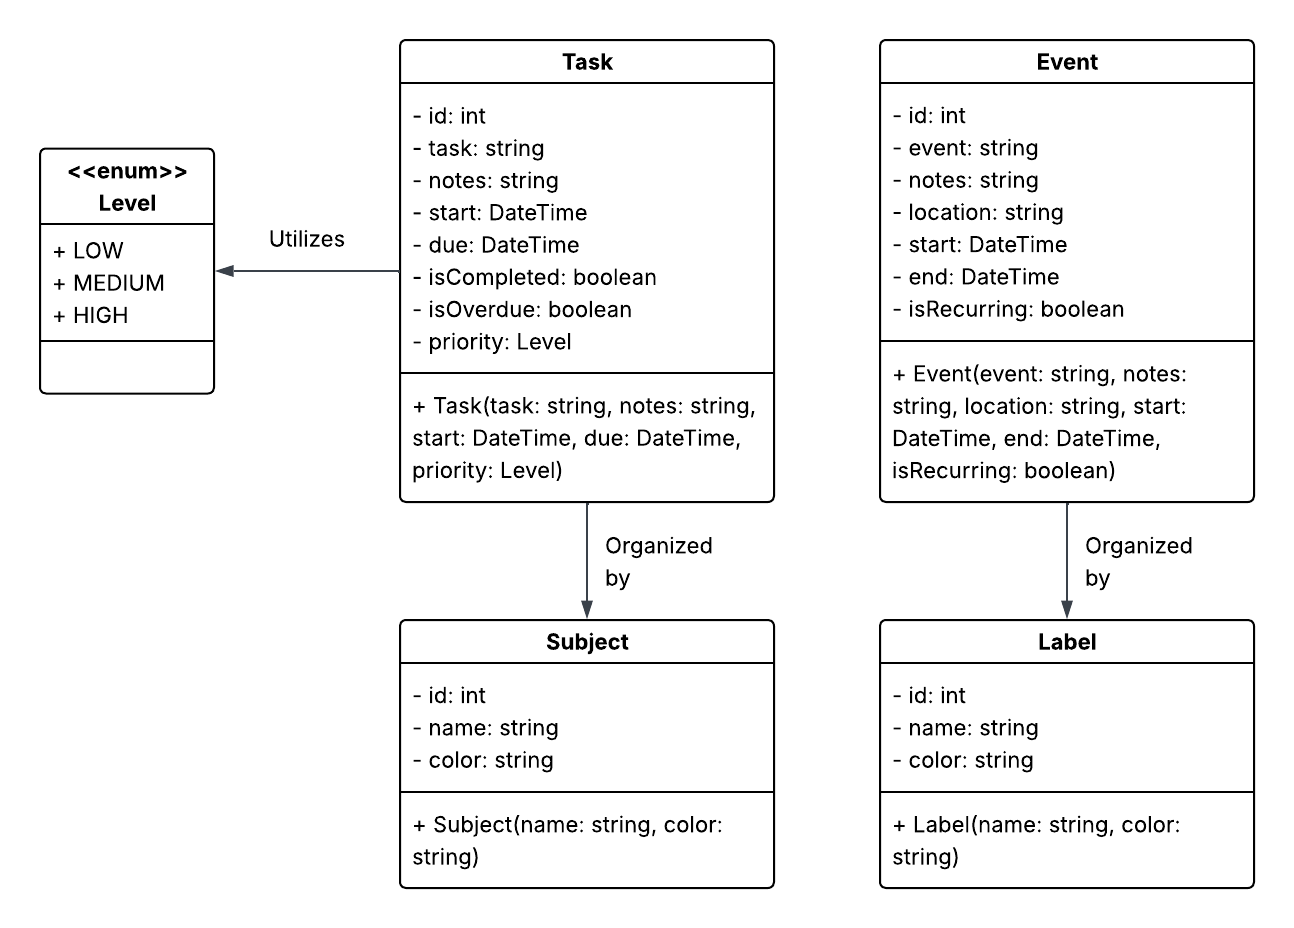
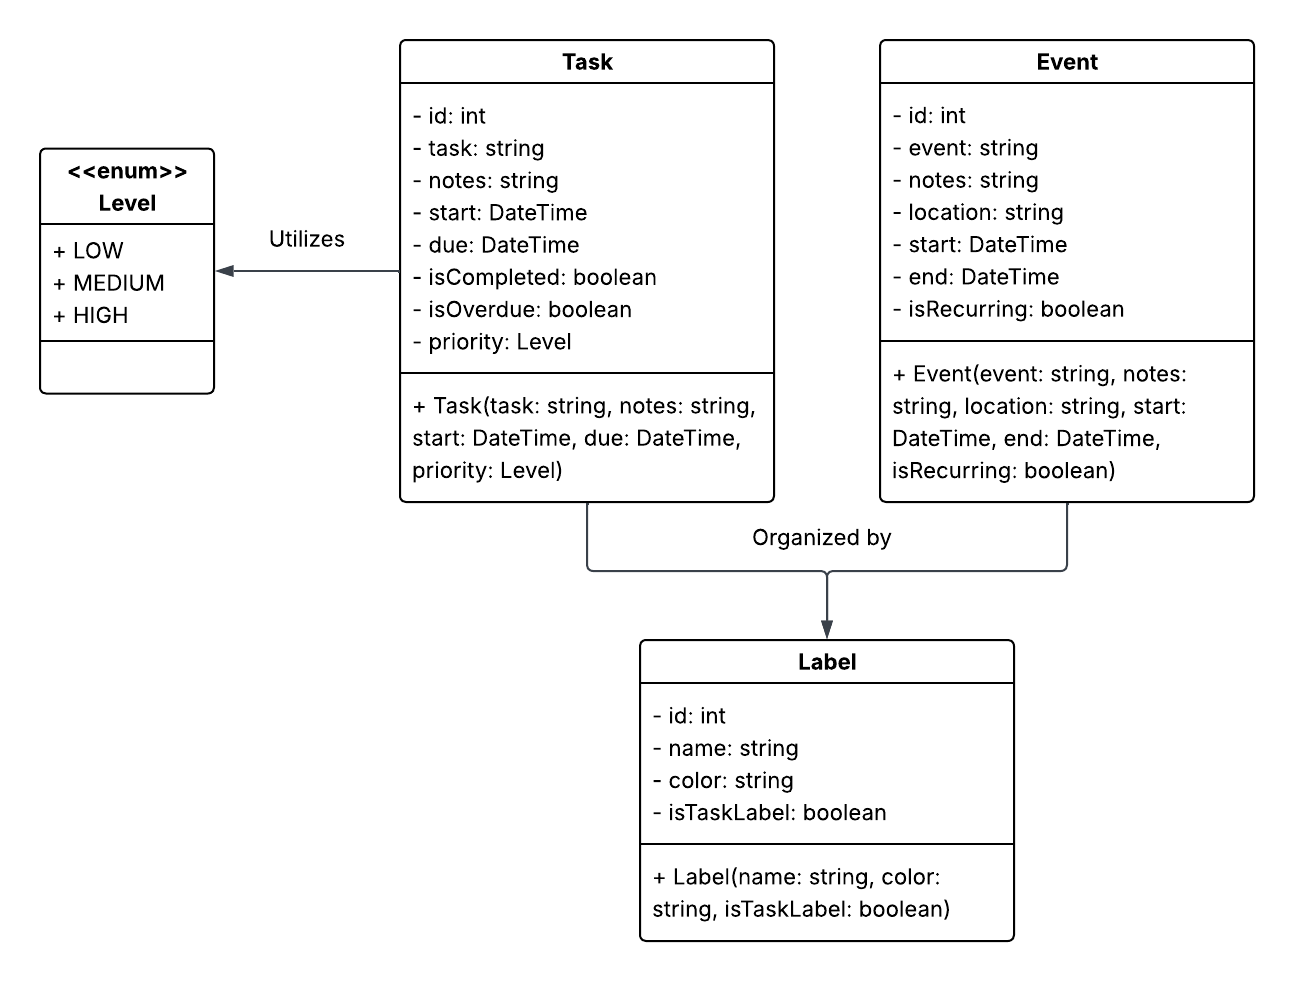
Model diagrams updated, database renamed for clarity

Changed region(s): [[0.1546, 0.0312, 0.9583, 0.625], [0.3091, 0.625, 0.9583, 0.9688], [0.0309, 0.125, 0.1546, 0.4375]]

diff --git a/task-manager-app/database/database.js b/task-manager-app/database/database.js
@@ -4,7 +4,7 @@ const Database = require('better-sqlite3');
 //Create the database connection
 let db;
 try {
-    const db = new Database(join(__dirname, "calendar.db"));
+    const db = new Database(join(__dirname, "database.db"));
     console.log("Database connected");
 }
 catch (err) {
